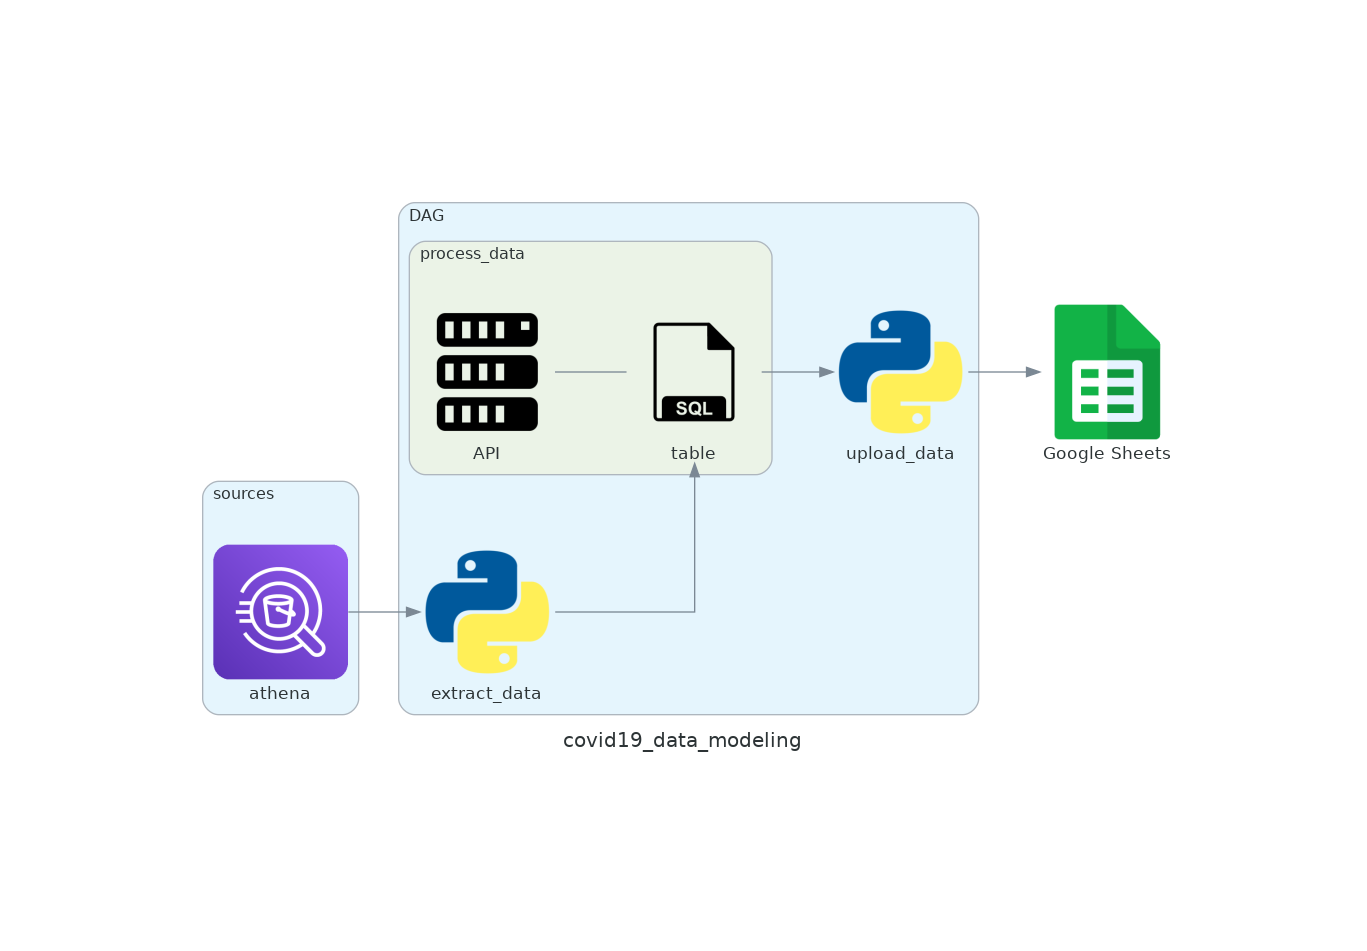
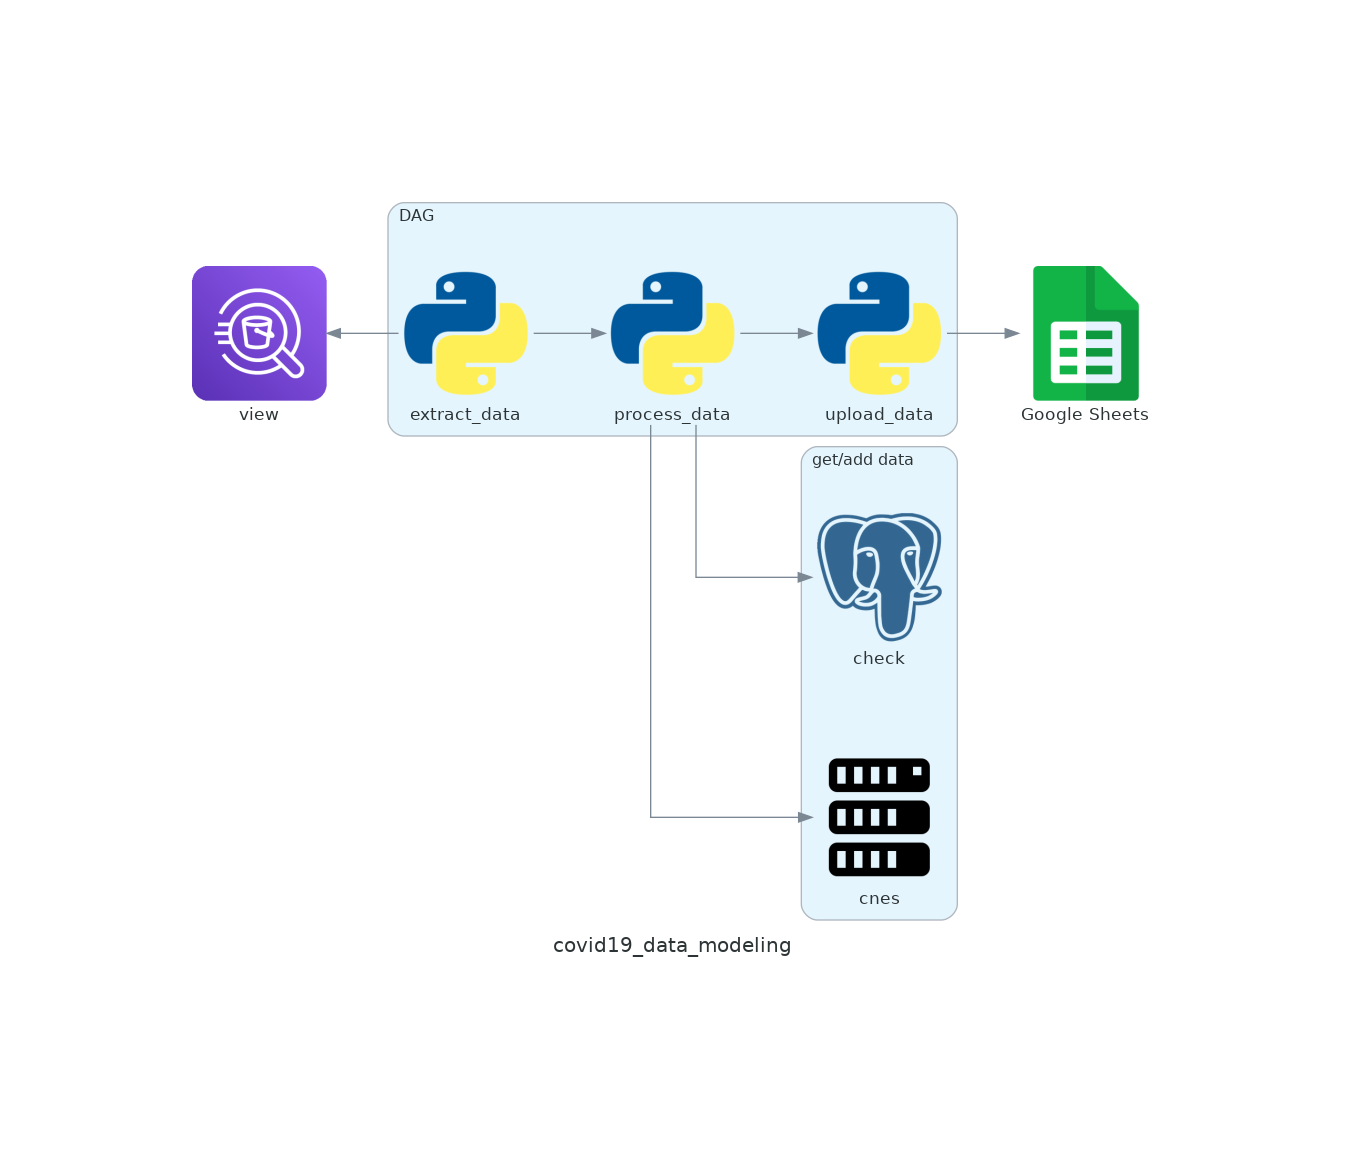
Updated covid19_data_modeling diagram

Changed region(s): [[0.1249, 0.1525, 0.7182, 0.8233], [0.7494, 0.2135, 0.8743, 0.4879], [0.1249, 0.2135, 0.2498, 0.3659]]

diff --git a/_diagrams/make_diagrams.py b/_diagrams/make_diagrams.py
@@ -3,7 +3,6 @@ from pathlib import Path
 from diagrams import Cluster, Diagram, Edge
 from diagrams.aws.analytics import Athena
 from diagrams.custom import Custom
-from diagrams.generic.database import SQL
 from diagrams.onprem.compute import Server
 from diagrams.onprem.database import Postgresql as PostgreSQL
 from diagrams.programming.language import Python
@@ -11,7 +10,7 @@ from diagrams.programming.language import Python
 path_root = Path(__file__).parent
 
 graph_attr = {
-    "bgcolor": "transparent",
+    "bgcolor": "white",
 }
 
 
@@ -23,26 +22,26 @@ def diagram_1():
             direction="LR",
             graph_attr=graph_attr):
 
-        with Cluster("sources"):
-            dbs = Athena("athena")
+        dbs = Athena("view")
 
         with Cluster("DAG"):
             dag = [
                 Python("extract_data"),
+                Python("process_data"),
                 Python("upload_data")]
 
-            with Cluster("process_data"):
-                primary = [SQL("table"), Server("API")]
-                primary[1] - primary[0]
+        with Cluster("get/add data"):
+            primary = [PostgreSQL("check"), Server("cnes")]
 
         sheets = Custom(
             "Google Sheets",
             f"{path_root}/resources/sheets-sheet-svgrepo-com.png")
 
-        dag[0] >> primary[0] >> dag[1]
-        dag[1] >> sheets
+        dag[0] >> dag[1] >> primary
 
-        dbs >> dag[0]
+        dag[1] >> dag[2] >> sheets
+
+        dbs << dag[0]
 
 
 def diagram_2():
@@ -57,4 +56,4 @@ def diagram_2():
 
 
 if __name__ == "__main__":
-    diagram_2()
+    diagram_1()
